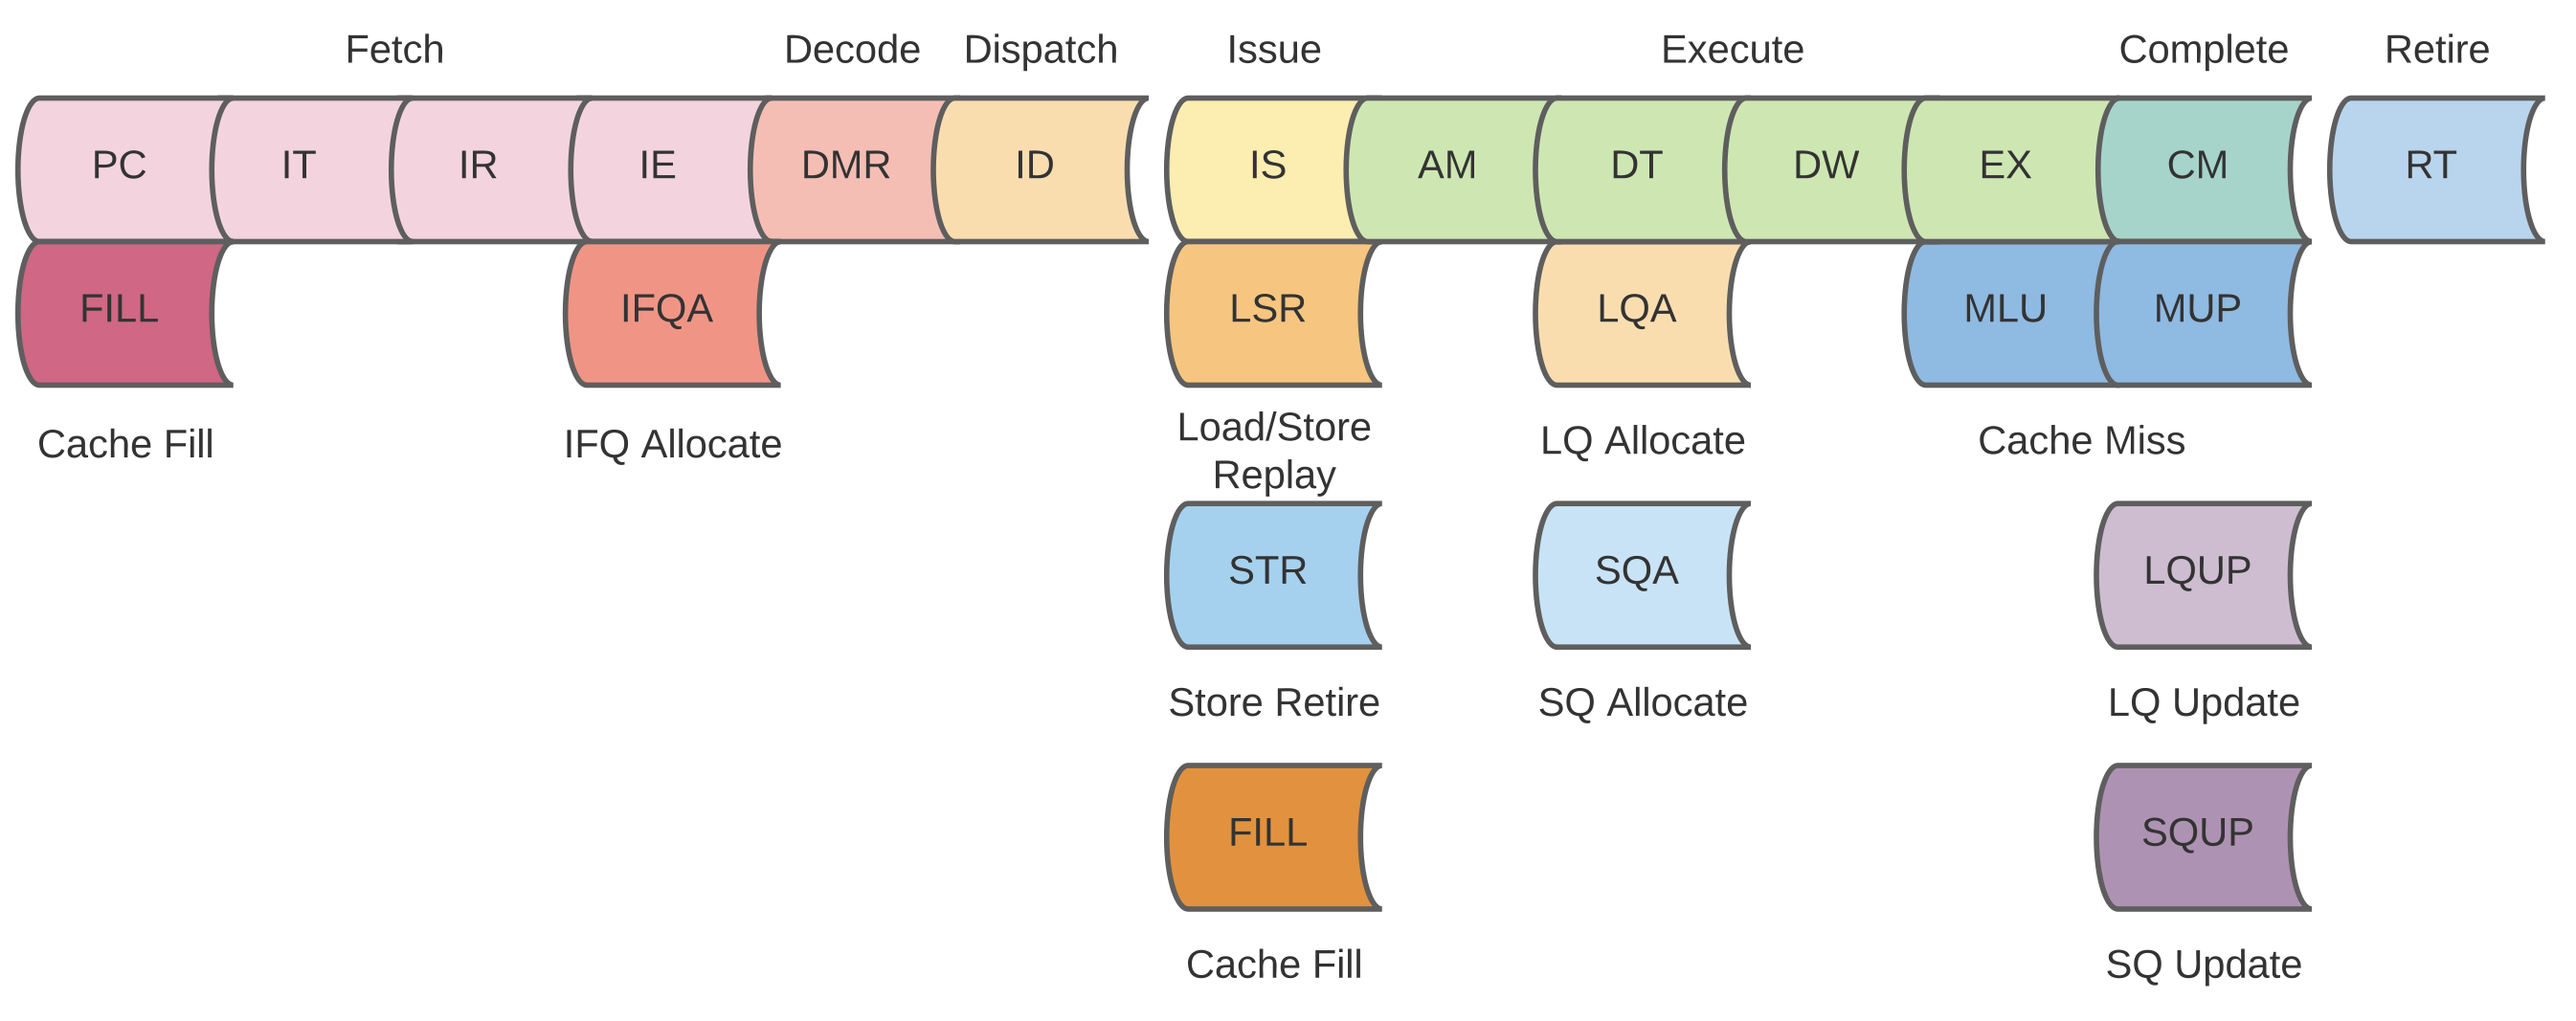
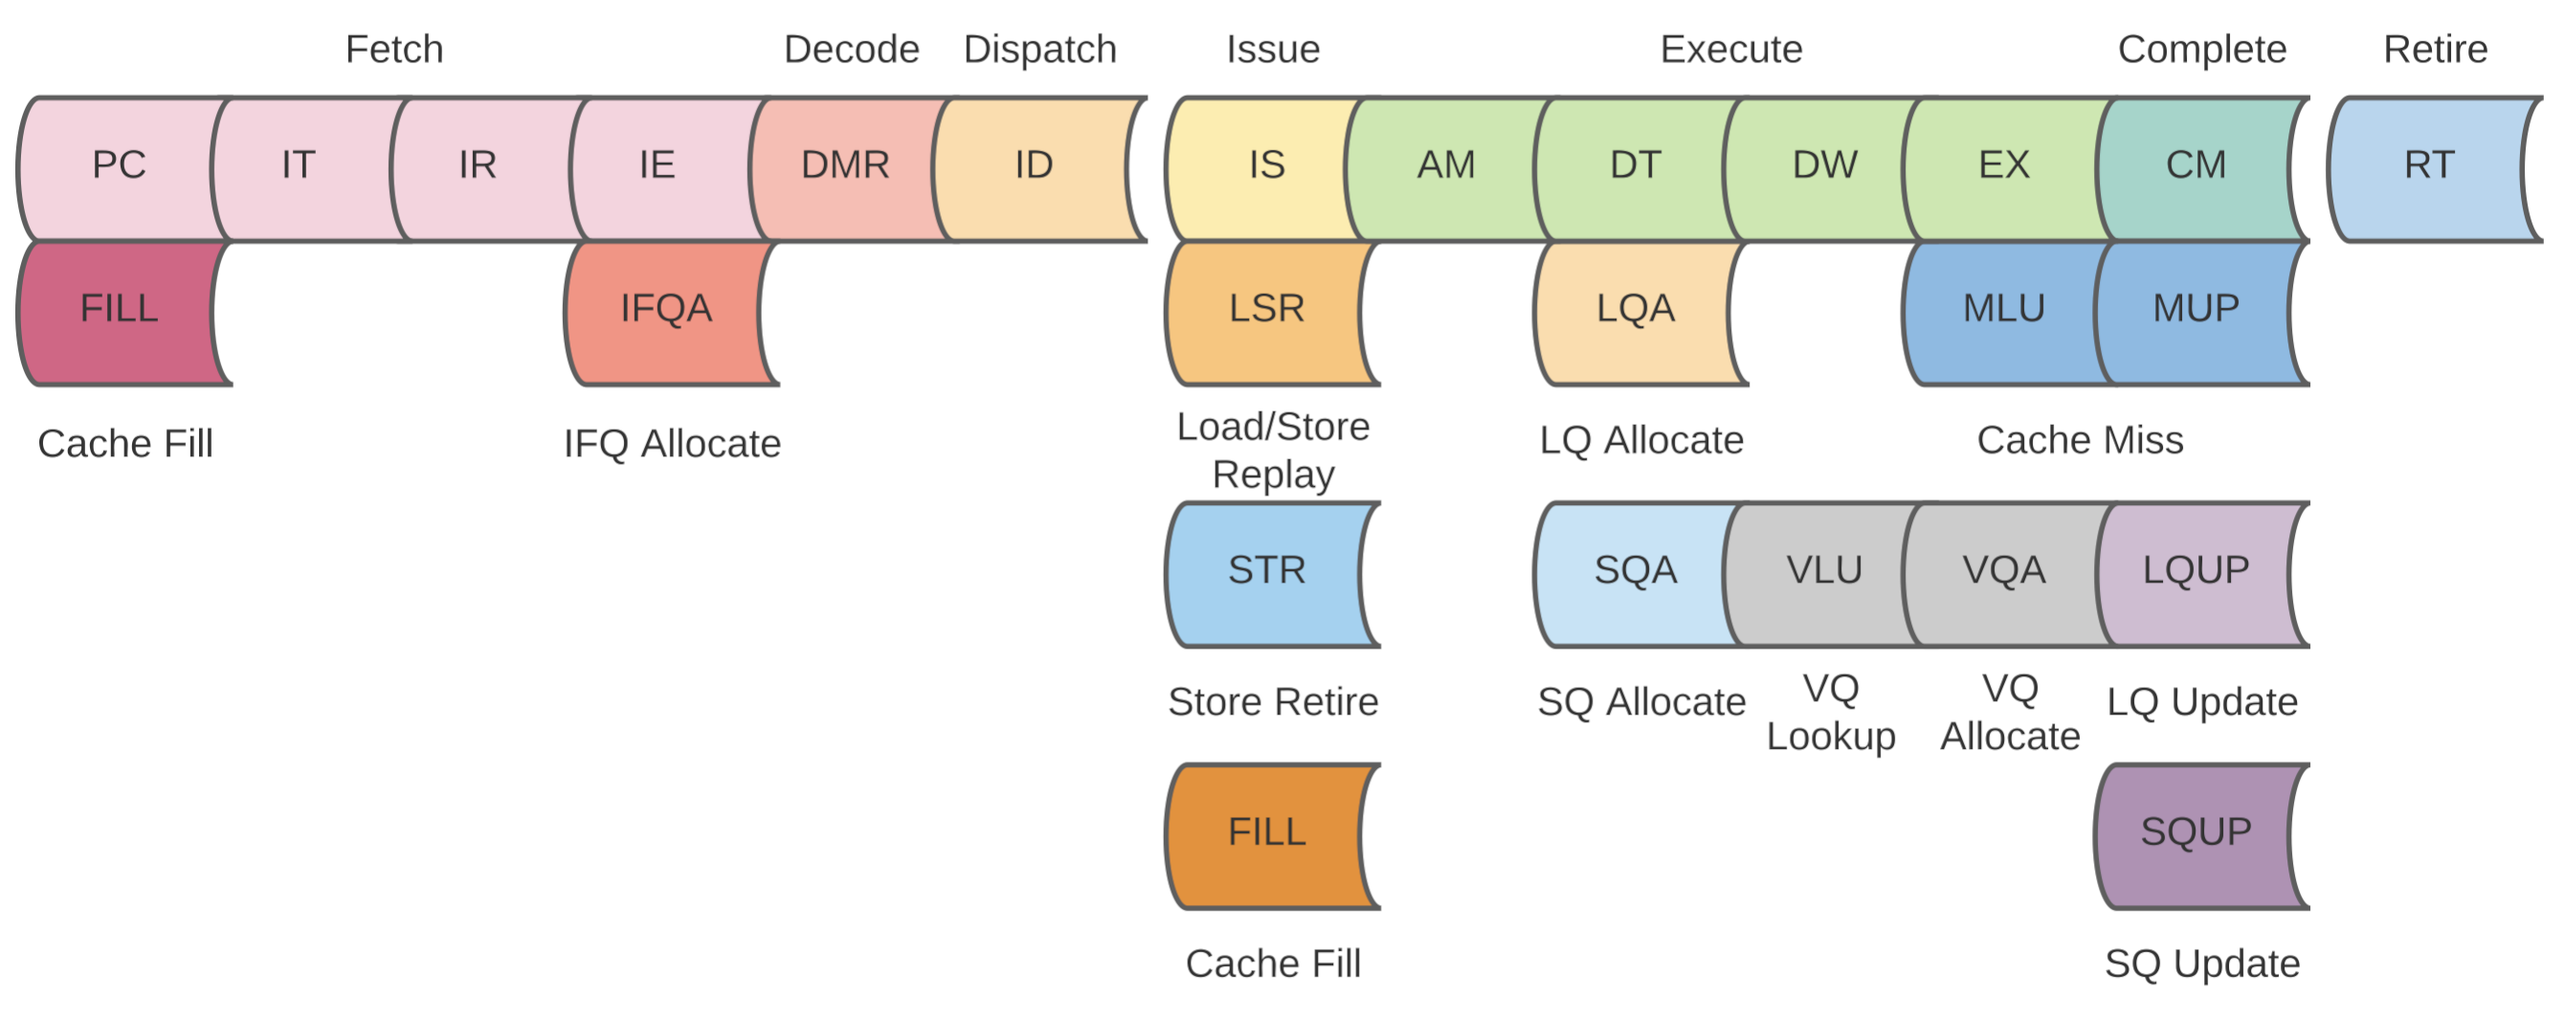
Update README.md
Add descriptions for the VQ and IFQ and update the descriptions for the
Fetch pipeline

diff --git a/README.md b/README.md
@@ -51,7 +51,7 @@ The Procyon core is an out-of-order, speculative processor. At a high-level an i
 
 Stage | Description
 ----- | -----------
-Fetch | Retrieve an instruction from the instruction cache and place it into the Instruction FIFO.
+Fetch | Retrieve an instruction from the instruction cache and place it into the Instruction FIFO. If there was a cache miss, it will allocate an entry in the Instruction Fetch Queue and stall until the cache fill arrives. It will stall if the Instruction FIFO or Instruction Fetch Queue is full.
 Decode | Decodes an instruction from the Instruction FIFO every cycle and reserve entries in the Reorder Buffer and the appropriate Reservation Station depending on the instruction type. Gets values or producer of source registers and renames destination registers in the Register Alias Table.
 Dispatch | Updates entries in the Reorder Buffer and Reservation Station for the new instruction and allows it to be scheduled when it's ready.
 Issue | When all operands are available an instruction can be issued into the appropriate functional unit every cycle. The reservation station will capture register values from producer ops and schedule ready instructions to it's functional unit when available.
@@ -69,7 +69,31 @@ This part of the pipeline is the same for all ALU, branch and load/store instruc
 
 ### Fetch Stage
 
-The fetch stage is very simple at the moment. It simply takes the current PC (`PC` cycle) and sends it to the iCache to read out (`IT` - iCache tag/data cacheline read, `IR` - pull out 4 byte instruction from cacheline). If there is a cache miss, the fetch unit will signal the Instruction Fetch Queue to retreive the cacheline and stall. Once the cacheline is filled, the fetch unit will resume at the missed PC. If a valid instruction is found in the iCache, the fetch unit will enqueue (`IE` - instruction enqueue) it into the instruction FIFO. It will stall if the instruction FIFO is full. The PC mux will use the redirect address for the PC if a flush is signalled by the back end of the core.
+The fetch stage is very simple at the moment. It simply takes the current PC and sends it to the iCache to read out  and enqueuing it into the Instruction FIFO. It handles cache misses by allocating the PC in the Instruction Fetch Queue.
+
+#### PC Generator
+
+The PC Generator (`PC`) either increments the PC by 4 or maintains the current PC in case of structural hazards (Instruction FIFO full or Instruction Fetch Queue full) or sets it to the redirect address in case of a flush.
+
+#### Instruction Cache Data/Tag Read
+
+The Instruction Cache is queried for tag and the data (it will return the full cache-line) in this cycle (`IT`). The cache supports bypassing data from incoming fills.
+
+#### Instruction Cache Hit Check & Read
+
+Cache-line tags and validity are checked in this cycle (`IR`) and if a cache hit is indicated, the instruction data will be marked valid.
+
+#### Enqueue
+
+If there is a cache miss, the fetch unit will signal the Instruction Fetch Queue to retrieve the cache-line and stall. Once the cache-line is filled, the fetch unit will resume at the missed PC. If a valid instruction is found in the iCache, the fetch unit will enqueue it into the Instruction FIFO in this cycle (`IE`). It will stall if the instruction FIFO is full.
+
+### IFQ: Instruction Fetch Queue
+
+The Instruction Fetch Queue is very simple. It will simply request the CCU to retrieve the cache-line and then signal a fill request to the iCache when the cache-line is available.
+
+#### IFQ Allocate
+
+Whenever the Fetch unit misses in the iCache it will send an allocate request to the Instruction Fetch Queue with the PC that missed.
 
 ### Decode Stage
 
@@ -108,7 +132,7 @@ The load/store unit performs loads and stores in the execution stage. The main p
 
 ### LSU: Load/Store Unit
 
-The Load/Store Unit is split into four main cycles assuming a cache hit; `AM`, `DT`, `DW`, and `EX`. There are several structures in the LSU and around it that are key to successful operation. These are the Load Queue, Store Queue and Miss Handling Queue.
+The Load/Store Unit is split into four main cycles assuming a cache hit; `AM`, `DT`, `DW`, and `EX`. There are several structures in the LSU and around it that are key to successful operation. These are the Load Queue, Store Queue, Victim Queue and Miss Handling Queue.
 
 #### Address Generation & Mux
 
@@ -124,11 +148,15 @@ In the same cycle as `DT` (Data Cache Data/Tag Read), an entry will be allocated
 
 #### Data Cache Hit Check & Write
 
-Cache-line tags and validity are checked here and if a cache hit is indicated then the load data will be marked valid and retiring store data will be written into the cache.
+Cache-line tags and validity are checked here and if a cache hit is indicated, the load data will be marked valid and retiring store data will be written into the cache.
+
+#### Victim Queue Lookup
+
+The Victim Queue will be queried for load operations only. Valid data can be bypassed from the Victim Queue with a `hit` signal indicating the lookup was successful.
 
 #### Execute
 
-The execute stage is straightforward. The actual bytes needed by the load instruction is extracted from the cache-line and prepared to be driven on the CDB alongside the Reorder Buffer entry number. If a victim data is provided by the Data Cache it will be sent to the Victim Buffer in this cycle.
+The execute stage is straightforward. The actual bytes needed by the load instruction is extracted from the cache-line and prepared to be driven on the CDB alongside the Reorder Buffer entry number. If a cache fill operation occurred and there is a victimized cache-line, that cache-line will be allocated in the Victim Queue in this cycle. The victimized cache-line will eventually be written out to memory but is available for lookups by load operations while waiting in the Victim Queue.
 
 #### Complete
 
@@ -136,7 +164,7 @@ The data on the CDB will be used to forward any load data to dependent instructi
 
 #### LQ/SQ Update
 
-During the same cycle as `CM` (complete), the Load Queue and Store Queue will be updated with the Miss Handling Queue tag or told to "sleep" until the next Miss Handling Queue fill request comes through in the case the load or store missed in the cache and the Miss Handling Queue is full. Load & stores will be immediately be marked `replayable` if the cacheline they need is ready in the Miss Handling Queue and the Miss Handling Queue is ready to launch a cache fill request to the LSU.
+During the same cycle as `CM` (complete), the Load Queue and Store Queue will be updated with the Miss Handling Queue tag or told to "sleep" until the next Miss Handling Queue fill request comes through in the case the load or store missed in the cache and the Miss Handling Queue is full. Load & stores will be immediately be marked `replayable` if the cache-line they need is ready in the Miss Handling Queue and the Miss Handling Queue is ready to launch a cache fill request to the LSU.
 
 #### Retire
 
@@ -165,3 +193,15 @@ A new entry is allocated in this cycle in case of a cache miss. If an entry alre
 #### Cache Fills
 
 When a full cache-line is received from the BIU, the Miss Handling Queue will signal the LSU pipeline to perform the Cache Fill. This goes through the same LSU pipeline flow as described above. Cache Fills take priority over any other LSU pipeline operation.
+
+### VQ: Victim Queue
+
+The Victim Queue holds victimized cache-lines due to cache fill operations. The Victim Queue allows lookups and bypasses valid data for load operations only.
+
+#### VQ Lookup
+
+After the `DT` stage, the Victim Queue is queried for data for the load operation. If it is available, the data will be sent to the LSU with a `hit` signal in the next cycle.
+
+#### VQ Allocate
+
+After a cache fill operation writes into the Data Cache, the victimized cache-line will be allocated into the Victim Queue in the LSU `EX` stage. The victim cache-line is available for lookups by load operations. Since writes may update the victimized cache-line by enqueuing into the MHQ, the Victim Queue may hold stale data that can be used by subsequent loads. This scenario is handled by the store operation marking all younger loads as mis-speculated causing those loads to flush the core and restart from the mis-speculated load. In the case that the VQ is full, the MHQ will not issue any cache fill operations even if it can until the VQ is no longer full. The VQ gets priority over the MHQ and IFQ by the CCU arbiter.
